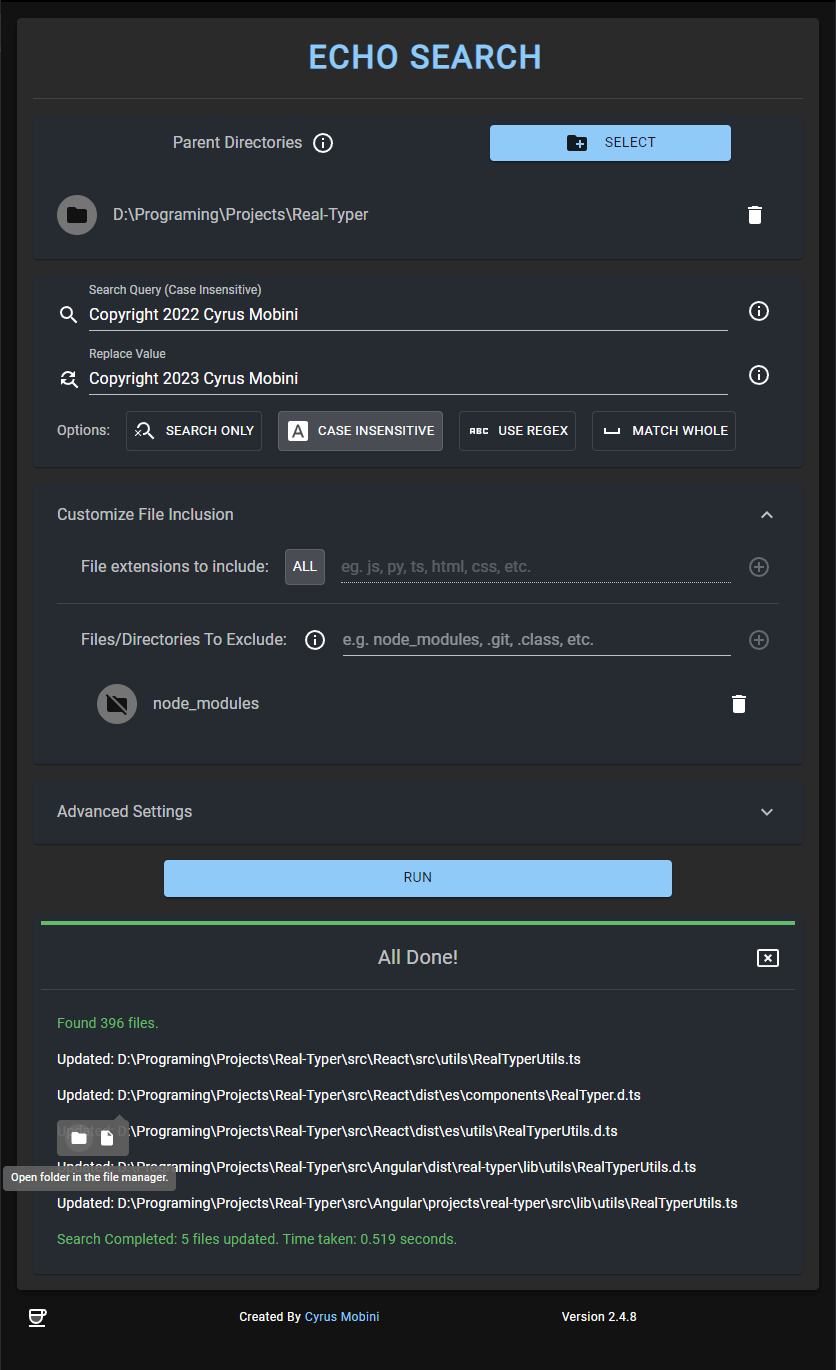
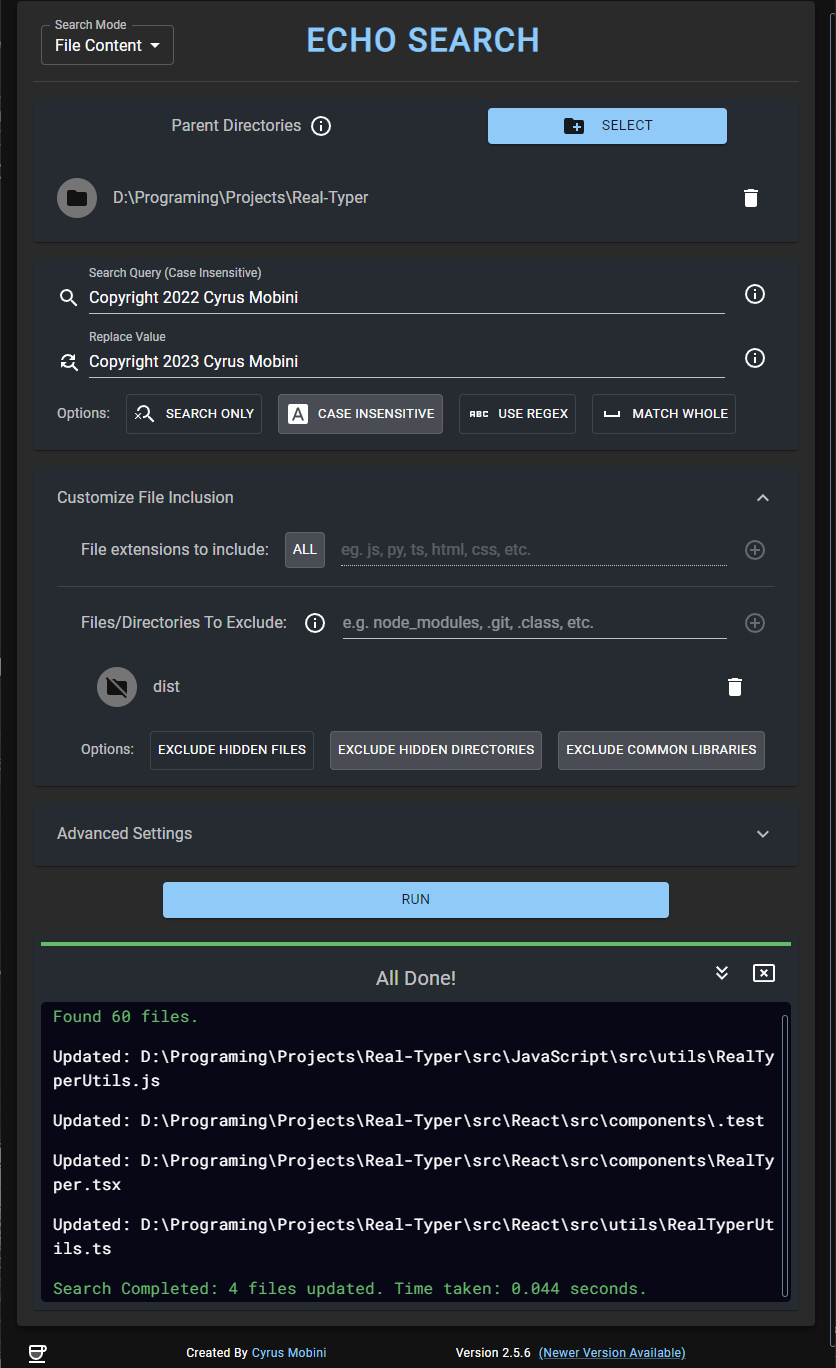
Updated docs for release 2.5

diff --git a/src/changelogs.js b/src/changelogs.js
@@ -1,7 +1,7 @@
 module.exports = [
   {
     version: "v2.5",
-    released: "20/02/2023",
+    released: "05/03/2023",
     logs: [
       "Added pre-defined exclude option for hidden files",
       "Added pre-defined exclude option for hidden directories",
@@ -9,7 +9,7 @@ module.exports = [
       "Optimized Console for large outputs",
       "Added scroll to bottom button in Console",
       "Added changelog reviewer",
-      "Added the file name search mode."
+      "Added file name search mode."
     ],
   },
   {

diff --git a/README.md b/README.md
@@ -6,13 +6,17 @@
 [![react](https://img.shields.io/github/package-json/dependency-version/cyrus2281/Echo-Search/react?logo=react&color=lightblue)](https://reactjs.org/)
 [![electron](https://img.shields.io/github/package-json/dependency-version/cyrus2281/Echo-Search/dev/electron?logo=electron&color=lightblue&logoColor=lightblue)](https://www.electronjs.org/)
 [![buyMeACoffee](https://img.shields.io/badge/BuyMeACoffee-cyrus2281-yellow?logo=buymeacoffee)](https://www.buymeacoffee.com/cyrus2281)
+![GitHub all releases](https://img.shields.io/github/downloads/cyrus2281/echo-search/total?color=orange&label=Downloads)
 <br>
 
-Echo Search is a feature-rich and powerful application that allows you to search for a specific text or regular expression query in the content of files within a directory and its subdirectories. It also offers the ability to replace the found text with another string of your choice. With its wide range of options and capabilities, it is an ideal solution for software developers, data analysts, and anyone looking for an efficient way to search and replace text in files.
+
+Echo Search is a feature-rich and powerful application that allows you to search for a specific text or regular expression query in the content of files within a directory and its subdirectories. It also offers the ability to replace the found text with another string of your choice. With its wide range of options and capabilities, it is an ideal solution for software developers, data analysts, and anyone looking for an efficient way to search and replace text in files. In addition, you can search for file names with customized inclusion to search through your file system.
 
 ## Key Features
 
 - Search for text or regular expressions: Echo Search supports both simple text queries and complex regular expression queries.
+
+- Search for file name: You can search for file name that match a specific query within directories.
 
 - Multi-line queries: You can search for text across multiple lines in a single file.
 
@@ -70,13 +74,13 @@ That's it. Enjoy the app.
 
 <hr>
 
-Echo Search is a versatile and efficient tool for searching and replacing text in files. With its extensive range of options and capabilities, it is suitable for a wide range of use cases, whether you are a software developer looking for a quick way to update code, or a data analyst searching for specific information in large datasets. Try Echo Search today and see how it can make your life easier.
+Echo Search is a versatile and efficient tool for searching and replacing text in files or searching filename within directories. With its extensive range of options and capabilities, it is suitable for a wide range of use cases, whether you are a software developer looking for a quick way to update code, or a data analyst searching for specific information in large datasets, or just trying to find a file. Try Echo Search today and see how it can make your life easier.
 
 ## Application Screenshots
 
 <div style="display:flex; gap:2%;">
   <img src="./images/baseapp.png" width="49%" />
-  <img src="./images/options.png" width="49%" />
+  <img src="./images/filename.png" width="49%" />
 </div>
 <br>
 <div style="display:flex; gap:2%;">
